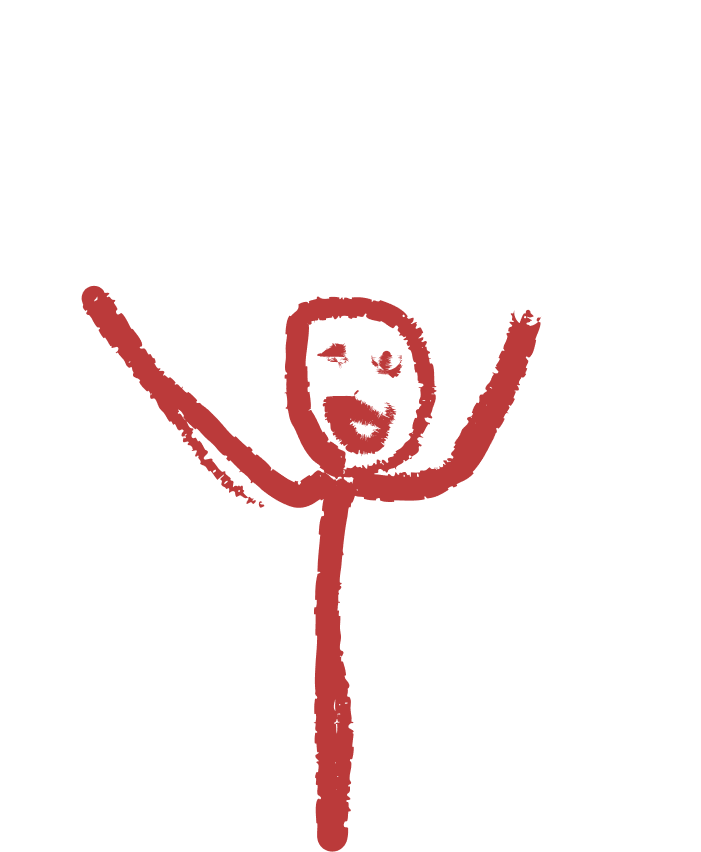
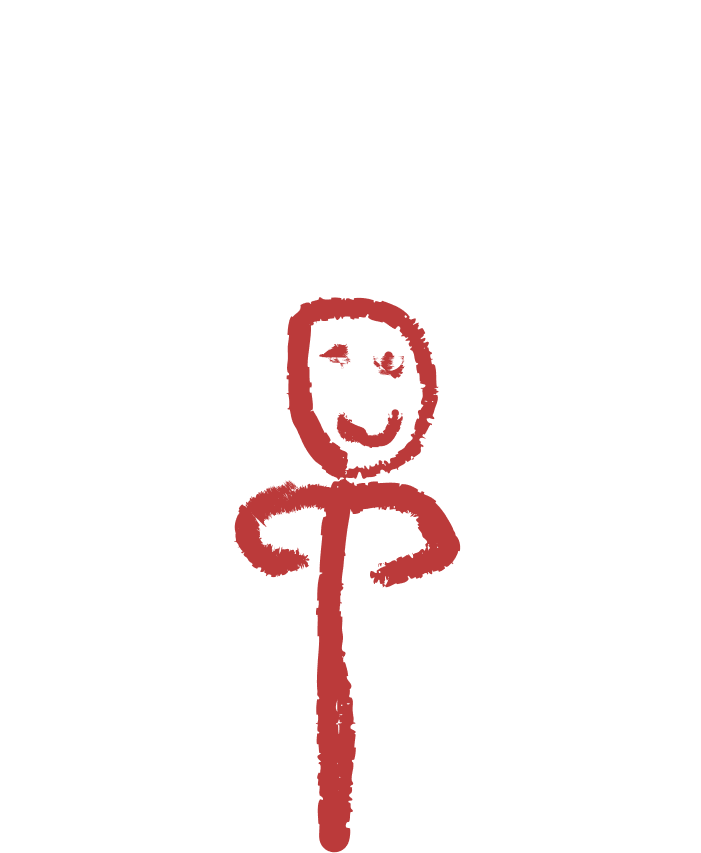
update content, add second profile pic placeholder for hover event, fix contact info button color

Changed region(s): [[0.1198, 0.3357, 0.7789, 1.0]]

diff --git a/public/styles/style.css b/public/styles/style.css
@@ -176,7 +176,7 @@ a:visited {
 section {
     flex: auto;
     /*margin-bottom was 50px previously*/
-    margin-bottom: 20px;
+    margin-bottom: 36px;
 }
 
 section:first-of-type,
@@ -274,11 +274,29 @@ body[data-color-scheme="light"] #color-mode-button-dark {
     border-top: 2px solid var(--color-accent);
 }
 
-#about-image {
+.about-image {
     background-color: var(--color-portrait-background);
     width: 100%;
     height: 100%;
     object-fit: cover;
+}
+
+#about-image {
+    display: block;
+}
+
+#about-image-onhover {
+    display: none;
+}
+
+#about-image-wrapper:hover {
+    #about-image {
+        display: none;
+    }
+
+    #about-image-onhover {
+        display: block;
+    }
 }
 
 #about__body {
@@ -425,10 +443,19 @@ body[data-color-scheme="light"] #color-mode-button-dark {
     margin-bottom: 28px;
 }
 
+#contact-item-container {
+    margin-bottom: 26px;
+}
+
 .contact-item {
     display: flex;
     align-items: center;
     gap: 8px;
+}
+
+.contact-item button {
+    color: var(--color-accent);
+
 }
 
 footer {
@@ -504,6 +531,10 @@ body[data-color-scheme="dark"] {
 }
 
 @media screen and (width>=700px) {
+    section {
+        margin-bottom: 40px;
+    }
+
     #about-flex-temp {
         display: flex;
         flex-direction: row-reverse;
